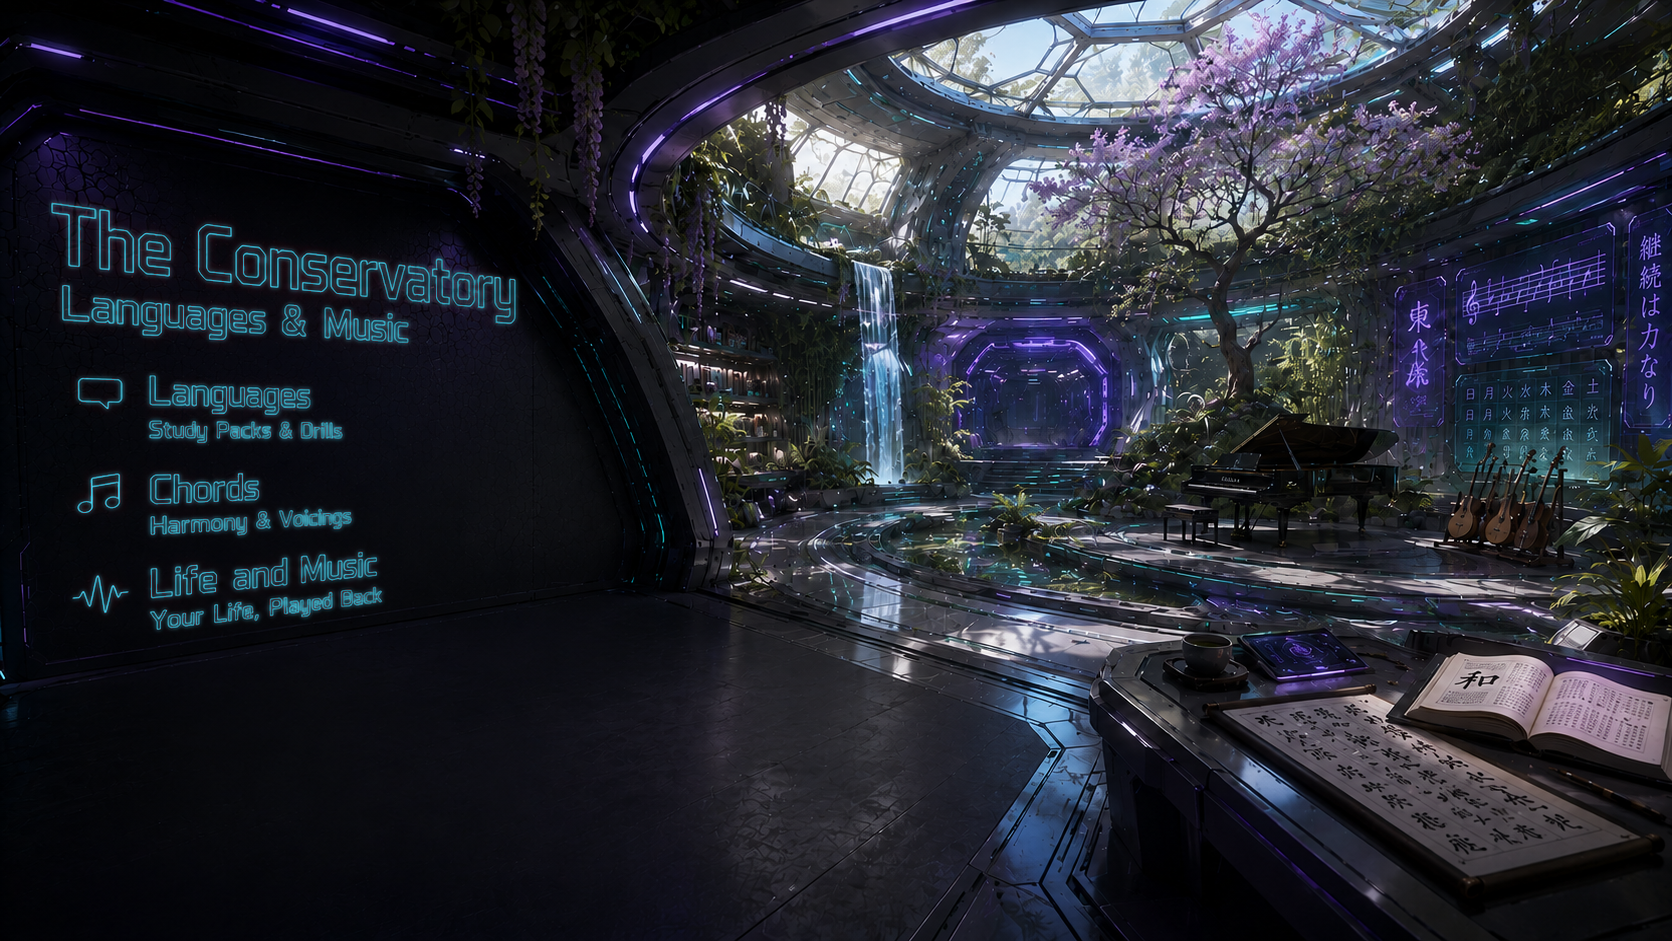
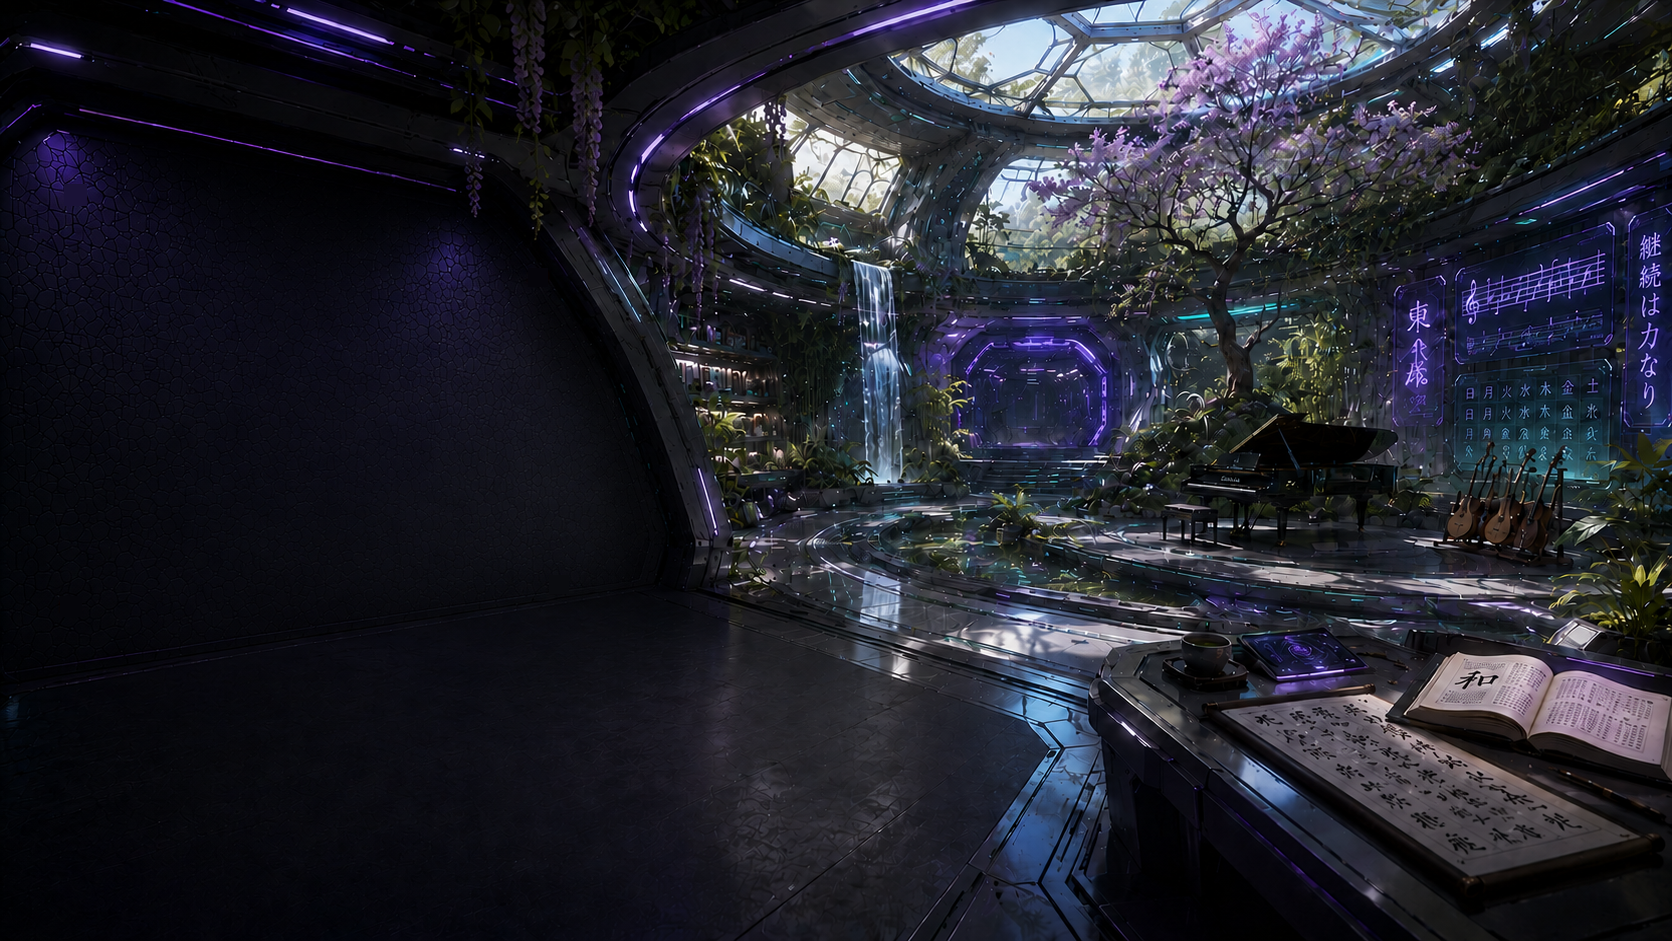
Vespera room: back to CSS homography, this time on a measured quad
Alek called it after the image-baked signage's hover-glow debugging took
several rounds: "that method clearly doesn't work, do it with CSS."

Root-caused why the FIRST CSS attempt looked "not glued to the wall":
that quad was eyeballed from image crops, not measured. This time the
wall's four corners come from a GPT-placed 4-marker reference image,
detected via connected-component color thresholding (same technique as
the hub) -- and Alek iterated the marker placement twice (credot1 vs
credot2) after I measured the first attempt was ~27% too short for the
content and showed exactly where the safe boundaries (floor trim,
architecture edge) actually were via brightness-profile scans.

img/conservatory.png is now a plain establishing shot with NO text or
markers (the 4 dots inpainted out of credot1, the winning candidate).
Real DOM text (title/subtitle/3 links) is laid out in a flat design box
and mapped onto the measured quad via a true 4-point perspective
homography (matrix3d, quadTransform() restored from git history). Hover
is plain color + text-shadow -- no pixel compositing at all, so none of
the muddy-blend/box-artifact failure modes from the baked-image approach
can happen here.

Verified the math, not just the look: read back the actual rendered
screen position of the design box's 4 corners and confirmed they match
the measured quad to within rounding error before trusting the visual
result. Also verified desktop nav (both links tested), hover isolation
[…]

diff --git a/js/interfaces/vespera/style.css b/js/interfaces/vespera/style.css
@@ -330,51 +330,108 @@
 /* .vsp-room reuses .vsp-hub (sizing + is-depart zoom) and .vsp-room-stage
    reuses .vsp-stage (aspect-lock to the room image, set inline).
 
-   The teal signage is baked directly into img/conservatory.png -- no
-   code-drawn text at all. Each .vsp-room-link is an invisible click target
-   sized to its signage row (left/top/width/height inline, from the room
-   config in index.js) holding an OPAQUE teal crop of that exact row
-   (.vsp-room-link-overlay) -- pixel-identical to the base beneath it, so
-   invisible at rest. On hover it fades in AND a hue-rotate filter recolors
-   its teal to hot pink IN PLACE. Because the crop is opaque it replaces
-   the base pixels rather than blending over them (no muddy pink-over-teal),
-   and because it's the real teal pixels rotated, the neon glow and the
-   anti-aliased letter edges are preserved exactly. drop-shadow adds the
-   fuzzy pink bleed onto the wall. See img/README.txt. */
+   The room art (img/conservatory.png) is a plain establishing shot with NO
+   text baked in. All signage is real DOM text (.vsp-room-quad and its
+   children), laid out flat in a fixed design box, then mapped onto the
+   wall's measured quad by a matrix3d homography computed in index.js.
+   Hover is plain color + text-shadow -- no pixel compositing anywhere, so
+   none of the muddy-blend/box-artifact failure modes that came up baking
+   signage into the image can happen here. Font sizes are fixed px relative
+   to the design box: the matrix scales them with the wall at every
+   viewport. */
+[data-interface='vespera'] .vsp-room-quad {
+  display: flex;
+  flex-direction: column;
+  padding: 22px 26px;
+}
+
+[data-interface='vespera'] .vsp-room-title {
+  font-family: 'Oxanium', var(--font-display);
+  font-weight: 600;
+  font-size: 38px;
+  letter-spacing: 0.05em;
+  line-height: 1.05;
+  text-transform: uppercase;
+  color: #54e6ff;
+  text-shadow:
+    0 2px 3px rgba(0, 0, 0, 0.85),
+    0 0 12px rgba(64, 200, 255, 0.75),
+    0 0 32px rgba(64, 180, 255, 0.35);
+}
+
+[data-interface='vespera'] .vsp-room-sub {
+  font-family: 'Rajdhani', sans-serif;
+  font-size: 15px;
+  letter-spacing: 0.22em;
+  text-transform: uppercase;
+  margin-top: 8px;
+  color: #6fb8e6;
+  opacity: 0.9;
+  text-shadow: 0 1px 2px rgba(0, 0, 0, 0.8);
+}
+
+[data-interface='vespera'] .vsp-room-links {
+  margin-top: 22px;
+  display: flex;
+  flex-direction: column;
+  flex: 1;
+  justify-content: space-evenly;
+}
+
 [data-interface='vespera'] .vsp-room-link {
-  position: absolute;
+  display: flex;
+  flex-direction: column;
+  gap: 3px;
+  text-align: left;
   cursor: pointer;
   background: transparent;
   border: none;
-  padding: 0;
+  border-bottom: 1px solid rgba(90, 200, 255, 0.22);
+  padding: 0 4px 10px;
+  transition: border-color 0.3s;
 }
 
-[data-interface='vespera'] .vsp-room-link-overlay {
-  display: block;
-  width: 100%;
-  height: 100%;
-  object-fit: fill;
-  opacity: 0;
-  /* The overlay's alpha is the STROKE SHAPE itself (transparent
-     everywhere else), so no rectangle can appear -- it covers the teal
-     strokes beneath exactly and, being pink already, needs no recolor
-     filter. drop-shadow adds the fuzzy pink glow, hugging the letters
-     because the element's alpha is letter-shaped. */
-  filter: drop-shadow(0 0 3px rgba(255, 80, 190, 0.9))
-    drop-shadow(0 0 9px rgba(255, 45, 160, 0.55));
-  transition: opacity 0.25s ease-out;
-  pointer-events: none;
+[data-interface='vespera'] .vsp-room-link-name {
+  font-family: 'Oxanium', var(--font-display);
+  font-weight: 600;
+  font-size: 24px;
+  letter-spacing: 0.05em;
+  text-transform: uppercase;
+  color: #49dbff;
+  text-shadow:
+    0 2px 3px rgba(0, 0, 0, 0.85),
+    0 0 10px rgba(64, 190, 255, 0.55);
+  transition: color 0.3s, text-shadow 0.3s;
 }
 
-[data-interface='vespera'] .vsp-room-link:hover .vsp-room-link-overlay,
-[data-interface='vespera'] .vsp-room-link:focus-visible .vsp-room-link-overlay {
-  opacity: 1;
+[data-interface='vespera'] .vsp-room-link-sub {
+  font-family: 'Rajdhani', sans-serif;
+  font-size: 12px;
+  letter-spacing: 0.15em;
+  text-transform: uppercase;
+  color: #6f9fc8;
+  text-shadow: 0 1px 2px rgba(0, 0, 0, 0.8);
+  transition: color 0.3s;
 }
 
-/* Hidden on desktop -- the art (or its hover overlay) already says this.
-   Mobile (below) turns it back on since the art itself is dropped there. */
-[data-interface='vespera'] .vsp-room-link-fallback {
-  display: none;
+/* Hover/focus: plain color + text-shadow change, no image compositing --
+   there is nothing underneath to blend with or seam against. */
+[data-interface='vespera'] .vsp-room-link:hover,
+[data-interface='vespera'] .vsp-room-link:focus-visible {
+  border-bottom-color: rgba(255, 90, 190, 0.7);
+}
+[data-interface='vespera'] .vsp-room-link:hover .vsp-room-link-name,
+[data-interface='vespera'] .vsp-room-link:focus-visible .vsp-room-link-name {
+  color: #ff5cc0;
+  text-shadow:
+    0 2px 3px rgba(0, 0, 0, 0.85),
+    0 0 6px rgba(255, 80, 190, 0.95),
+    0 0 18px rgba(255, 50, 165, 0.85),
+    0 0 38px rgba(255, 30, 150, 0.65);
+}
+[data-interface='vespera'] .vsp-room-link:hover .vsp-room-link-sub,
+[data-interface='vespera'] .vsp-room-link:focus-visible .vsp-room-link-sub {
+  color: #ff9ad6;
 }
 
 /* --- Hosted module content --- */
@@ -473,47 +530,21 @@
   [data-interface='vespera'] .vsp-doors { padding: 1rem; }
 
   /* Room: the stage drops its art (shared .vsp-stage rule above), so the
-     baked-in signage isn't visible -- links flatten into a normal stacked
-     list with plain text instead of image cutouts. !important overrides
-     the inline left/top/width/height from index.js (they position against
-     art that isn't rendered here). */
-  [data-interface='vespera'] .vsp-room-link {
+     signage plane flattens into a normal stacked list -- no absolute
+     positioning, no homography against art that isn't there. !important
+     overrides the inline width/height/transform from index.js (they are
+     inline, kept atomic with the matrix on purpose -- only an !important
+     stylesheet rule can outrank an inline style). */
+  [data-interface='vespera'] .vsp-room-quad {
     position: static !important;
-    left: auto !important;
-    top: auto !important;
     width: auto !important;
     height: auto !important;
-    display: block;
-    padding: 0.9rem 1rem;
-    margin: 0 1rem;
-    border-bottom: 1px solid rgba(90, 200, 255, 0.22);
-    text-align: left;
+    transform: none !important;
+    margin: 0.5rem 1rem 1rem;
+    padding: 0;
   }
-  [data-interface='vespera'] .vsp-room-link-overlay { display: none; }
-  [data-interface='vespera'] .vsp-room-link-fallback {
-    display: flex;
-    flex-direction: column;
-    gap: 0.2rem;
-  }
-  [data-interface='vespera'] .vsp-room-link-fallback-name {
-    font-family: 'Oxanium', var(--font-display);
-    font-weight: 600;
-    font-size: 1.05rem;
-    letter-spacing: 0.05em;
-    text-transform: uppercase;
-    color: #49dbff;
-  }
-  [data-interface='vespera'] .vsp-room-link-fallback-sub {
-    font-family: 'Rajdhani', sans-serif;
-    font-size: 0.7rem;
-    letter-spacing: 0.14em;
-    text-transform: uppercase;
-    color: #6f9fc8;
-  }
-  [data-interface='vespera'] .vsp-room-link:hover .vsp-room-link-fallback-name,
-  [data-interface='vespera'] .vsp-room-link:focus-visible .vsp-room-link-fallback-name {
-    color: #ff5cc0;
-  }
+  [data-interface='vespera'] .vsp-room-title { font-size: 1.6rem; }
+  [data-interface='vespera'] .vsp-room-link-name { font-size: 1.05rem; }
 }
 
 @media (prefers-reduced-motion: reduce) {

diff --git a/js/interfaces/vespera/index.js b/js/interfaces/vespera/index.js
@@ -66,40 +66,28 @@ const DISTRICTS = [
     hotspot: { cx: 86.99, cy: 13.02, w: 12.62, h: 14.35, clip: 'polygon(0.0% 58.1%, 100.0% 0.0%, 100.0% 58.5%, 0.2% 100.0%)' } },
   { id: 'conservatory', name: 'The Conservatory', tagline: 'Languages & Music', icon: '🎵', modules: ['languages', 'chords', 'lifeasmusic'],
     hotspot: { cx: 85.93, cy: 36.56, w: 13.43, h: 8.5, clip: 'polygon(0.0% 31.2%, 100.0% 0.0%, 99.1% 90.0%, 0.2% 100.0%)' },
-    // Immersive entry room (see renderRoom). `image` is the establishing
-    // shot rendered on an aspect-locked stage (same technique as the hub).
-    //
-    // Superseded the CSS-projected signage (homography onto a measured
-    // wall quad, see git history) with baked-in art: Alek had the image
-    // generator itself render the real title/link text directly on the
-    // wall in solid red (#FF0000-ish, with some anti-aliased/darker-red
-    // variance), at whatever perspective and lighting it chose -- solving
-    // the "glued to the wall" problem at the only layer that actually can
-    // (the render), not at the CSS layer. img/conservatory.png is that art
-    // with every detected red pixel recolored teal in place (brightness
-    // preserved, soft bloom added) -- that's the always-visible rest
-    // state, no code-drawn box or text at all.
-    //
-    // `links[].overlay` is a small pre-cropped RGBA cutout of just that
-    // link's pixels (icon+name+description together), recolored hot pink
-    // with a stronger fuzzy bloom and transparent everywhere else --
-    // revealed on hover by absolute-positioning it (left/top/width/height
-    // as % of the image, from the same crop) over the teal base. No
-    // rotation or perspective math anywhere: the overlay is pixel-for-
-    // pixel from the same photo, so it can't help lining up.
-    //
-    // Regenerating this art requires re-running the red-text detection +
-    // recolor + crop pipeline in img/README.txt against the new image --
-    // these numbers are tied to the current source (img/consredout.png,
-    // the outline-signage version).
+    // Immersive entry room (see renderRoom). `image` is a plain
+    // establishing shot (no text, no markers) rendered on an aspect-locked
+    // stage (same technique as the hub). `quad` is the wall plane the
+    // signage is projected onto: four corners (TL,TR,BR,BL as % of the
+    // image), measured -- not eyeballed -- from a GPT-placed 4-marker
+    // reference image (Alek iterated the marker placement twice; these are
+    // the corners that used the most of the wall while staying clear of
+    // the floor trim and the architecture on the right, verified by pixel-
+    // detecting the actual marker centers before the markers were inpainted
+    // out for the shipped image). Real DOM text (title/subtitle/links,
+    // rendered in renderRoom) is mapped onto this quad via a 4-point
+    // perspective homography (matrix3d) -- this superseded a prior CSS
+    // attempt that used an eyeballed quad and looked "not glued to the
+    // wall"; the theory is that was a bad-data problem, not a bad-math one,
+    // since a true homography against accurate corners has no freedom to
+    // look wrong. Verify that theory with a screenshot before trusting it
+    // twice.
     room: {
       image: 'img/conservatory.png',
       ratio: '1672 / 941',
-      links: {
-        languages: { overlay: 'img/ops_row_languages.png', left: 3.83, top: 38.04, width: 17.46, height: 10.41 },
-        chords: { overlay: 'img/ops_row_chords.png', left: 3.77, top: 47.93, width: 18.06, height: 10.41 },
-        lifeasmusic: { overlay: 'img/ops_row_life.png', left: 3.47, top: 57.81, width: 20.16, height: 10.84 },
-      },
+      designW: 460, designH: 348,
+      quad: [[4.52, 20.72], [32.18, 29.49], [33.43, 62.11], [4.25, 64.45]],
     } },
   { id: 'core', name: 'Systems Core', tagline: 'Tools & Settings', icon: '🛠️', modules: ['tools', 'settings', 'search', 'qrsync'],
     hotspot: { cx: 85.68, cy: 60.31, w: 12.8, h: 9.14, clip: 'polygon(0.2% 0.0%, 100.0% 22.7%, 100.0% 100.0%, 0.0% 64.0%)' } },
@@ -144,6 +132,35 @@ function moduleTagline(id) {
 
 function districtOf(moduleId) {
   return DISTRICTS.find((d) => d.modules.includes(moduleId)) || null;
+}
+
+// Perspective homography: the matrix3d that maps a flat wDesign x hDesign
+// box onto an arbitrary destination quadrilateral (TL,TR,BR,BL in px).
+// Standard 4-point projective solve (8x8 Gaussian elimination). Used to
+// project real DOM signage onto a wall plane measured from reference
+// markers in the room art (see the `quad` comment on DISTRICTS.room).
+function quadTransform(wDesign, hDesign, dst) {
+  const src = [[0, 0], [wDesign, 0], [wDesign, hDesign], [0, hDesign]];
+  const A = [];
+  for (let i = 0; i < 4; i++) {
+    const [x, y] = src[i];
+    const [X, Y] = dst[i];
+    A.push([x, y, 1, 0, 0, 0, -x * X, -y * X, X]);
+    A.push([0, 0, 0, x, y, 1, -x * Y, -y * Y, Y]);
+  }
+  for (let col = 0; col < 8; col++) {
+    let piv = col;
+    for (let r = col + 1; r < 8; r++) if (Math.abs(A[r][col]) > Math.abs(A[piv][col])) piv = r;
+    [A[col], A[piv]] = [A[piv], A[col]];
+    if (Math.abs(A[col][col]) < 1e-12) return ''; // degenerate quad
+    for (let r = 0; r < 8; r++) {
+      if (r === col) continue;
+      const f = A[r][col] / A[col][col];
+      for (let c = col; c < 9; c++) A[r][c] -= f * A[col][c];
+    }
+  }
+  const h = A.map((row, i) => row[8] / A[i][i]); // [a,b,c,d,e,f,g,h]
+  return `matrix3d(${h[0]},${h[3]},0,${h[6]},${h[1]},${h[4]},0,${h[7]},0,0,1,0,${h[2]},${h[5]},0,1)`;
 }
 
 // Shared zoom-travel: aim the transform-origin at the clicked target, add
@@ -289,46 +306,63 @@ function renderRoom(root, district) {
   ]));
 
   const zoom = el('div', { class: 'vsp-hub vsp-room' });
-  // Resolve art paths against THIS module's URL, not the document base: an
-  // inline background-image/img url() would otherwise resolve relative to
+  // Resolve the art path against THIS module's URL, not the document base:
+  // an inline background-image url() would otherwise resolve relative to
   // index.html (wrong folder, and wrong again under GitHub Pages' subpath).
-  const resolve = (rel) => new URL(rel, import.meta.url).href;
+  const imgUrl = new URL(room.image, import.meta.url).href;
   const stage = el('div', {
     class: 'vsp-stage vsp-room-stage',
-    style: `aspect-ratio: ${room.ratio}; background-image: url('${resolve(room.image)}');`,
+    style: `aspect-ratio: ${room.ratio}; background-image: url('${imgUrl}');`,
   });
 
-  // Each link is an invisible click target the size of its signage row,
-  // holding an absolutely-positioned pink-recolored cutout of that exact
-  // row (see the room config comment) that's transparent until hover. No
-  // rotation or perspective math: it's a pixel-for-pixel crop of the same
-  // photo, so it is the correct shape and position by construction.
+  // The signage plane: real DOM text laid out flat in a designW x designH
+  // box, then projected onto the measured wall quad via a matrix3d
+  // homography (computed below, kept in sync with the stage's rendered
+  // size). position/left/top/transform-origin ship INLINE (not in the
+  // stylesheet) so a stale cached stylesheet can never detach them from
+  // the matrix -- that exact mismatch shipped once already.
+  const panel = el('div', {
+    class: 'vsp-room-quad',
+    style: `position:absolute; left:0; top:0; transform-origin:0 0;`
+      + ` width:${room.designW}px; height:${room.designH}px;`,
+  }, [
+    el('div', { class: 'vsp-room-title', text: district.name }),
+    el('div', { class: 'vsp-room-sub', text: district.tagline }),
+  ]);
+  const links = el('div', { class: 'vsp-room-links' });
   for (const id of district.modules) {
-    const spec = room.links[id];
     const link = el('button', {
       type: 'button', class: 'vsp-room-link',
-      style: `left:${spec.left}%; top:${spec.top}%; width:${spec.width}%; height:${spec.height}%;`,
-      'aria-label': `${moduleLabel(id)} — ${moduleTagline(id)}`,
       onclick: () => travel(zoom, link, () => ctx.navigate(id)),
     }, [
-      el('img', {
-        class: 'vsp-room-link-overlay', src: resolve(spec.overlay), alt: '', draggable: 'false',
-      }),
-      // Mobile drops the background art (see .vsp-stage's mobile override),
-      // so the baked-in signage isn't visible there either -- this text is
-      // visually hidden on desktop (the art already says it) and shown as
-      // a plain stacked label on mobile so the room stays usable without
-      // the photo.
-      el('span', { class: 'vsp-room-link-fallback' }, [
-        el('span', { class: 'vsp-room-link-fallback-name', text: moduleLabel(id) }),
-        el('span', { class: 'vsp-room-link-fallback-sub', text: moduleTagline(id) }),
-      ]),
+      el('span', { class: 'vsp-room-link-name', text: moduleLabel(id) }),
+      el('span', { class: 'vsp-room-link-sub', text: moduleTagline(id) }),
     ]);
-    stage.append(link);
+    links.append(link);
   }
+  panel.append(links);
+  stage.append(panel);
   zoom.append(stage);
   screen.append(zoom);
   root.append(screen);
+
+  // Project the text plane onto the wall, and keep it projected: the quad
+  // is stored as % of the image, so the matrix depends on the stage's
+  // rendered size and must be recomputed whenever that changes. (Mobile
+  // overrides the inline transform with !important and falls back to a
+  // flat stacked list -- recomputing here is a harmless no-op there.)
+  const apply = () => {
+    // clientWidth/Height, not getBoundingClientRect: layout size is immune
+    // to ancestor transforms (the arrive/depart scale animations would
+    // otherwise bake a stale scale into the matrix).
+    const w = stage.clientWidth;
+    const h = stage.clientHeight;
+    if (!w || !h) { requestAnimationFrame(apply); return; }
+    const dst = room.quad.map(([qx, qy]) => [(qx / 100) * w, (qy / 100) * h]);
+    panel.style.transform = quadTransform(room.designW, room.designH, dst);
+  };
+  new ResizeObserver(apply).observe(stage);
+  requestAnimationFrame(apply);
 }
 
 // --- Space (module content inside station chrome) ---

diff --git a/service-worker.js b/service-worker.js
@@ -1,4 +1,4 @@
-const CACHE_VERSION = 'lifeos-v86';
+const CACHE_VERSION = 'lifeos-v87';
 const APP_SHELL = [
   './',
   './index.html',